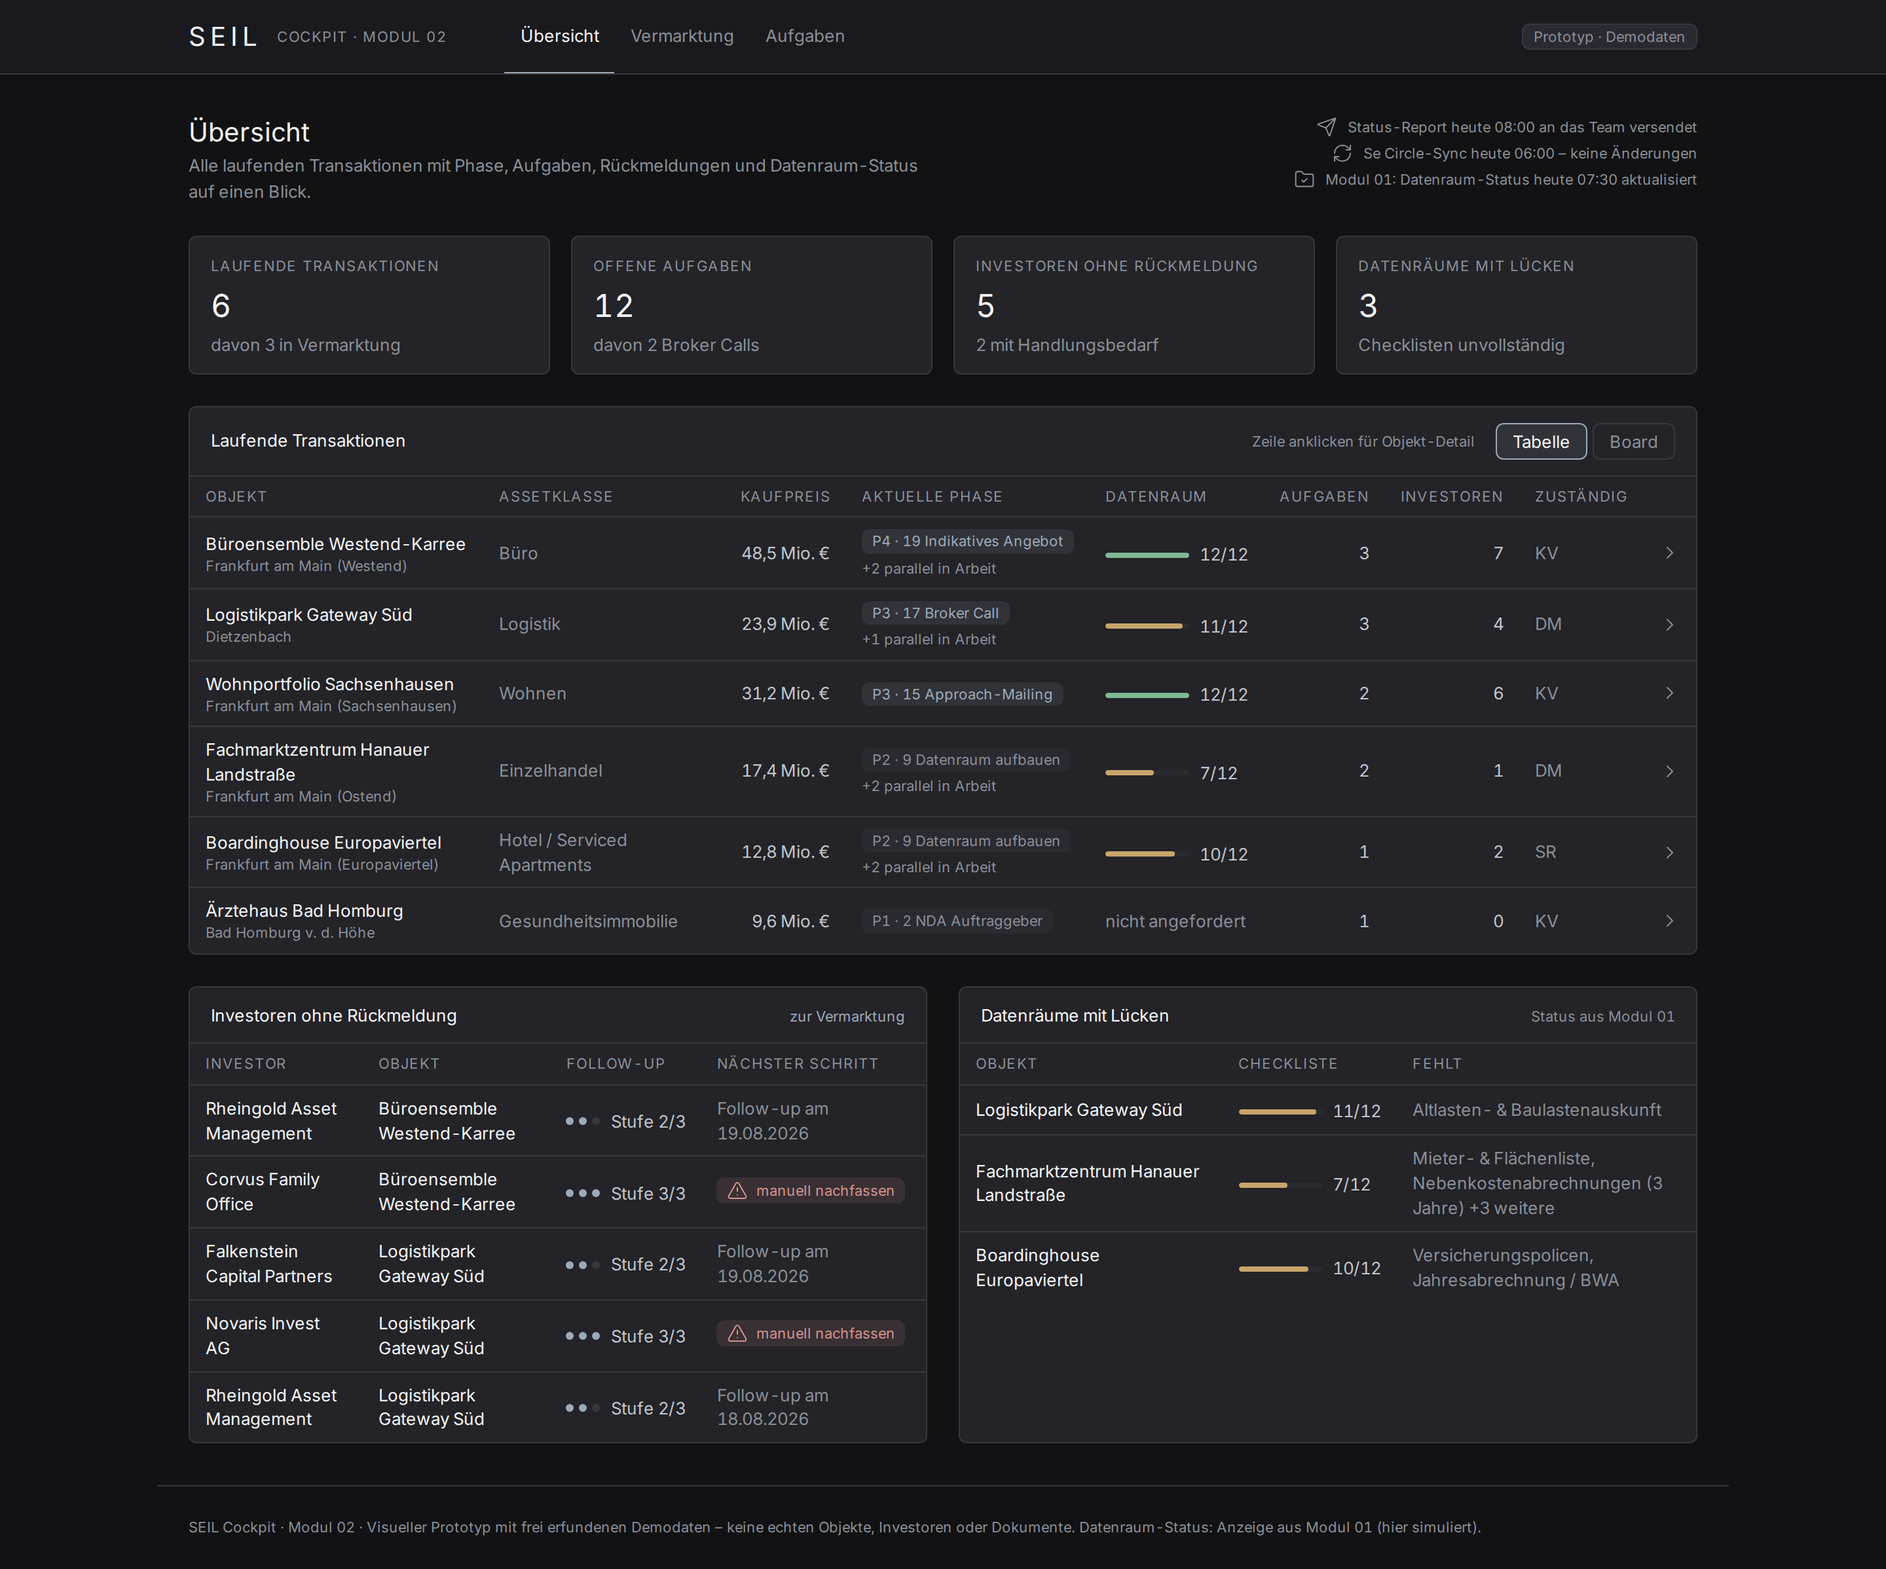
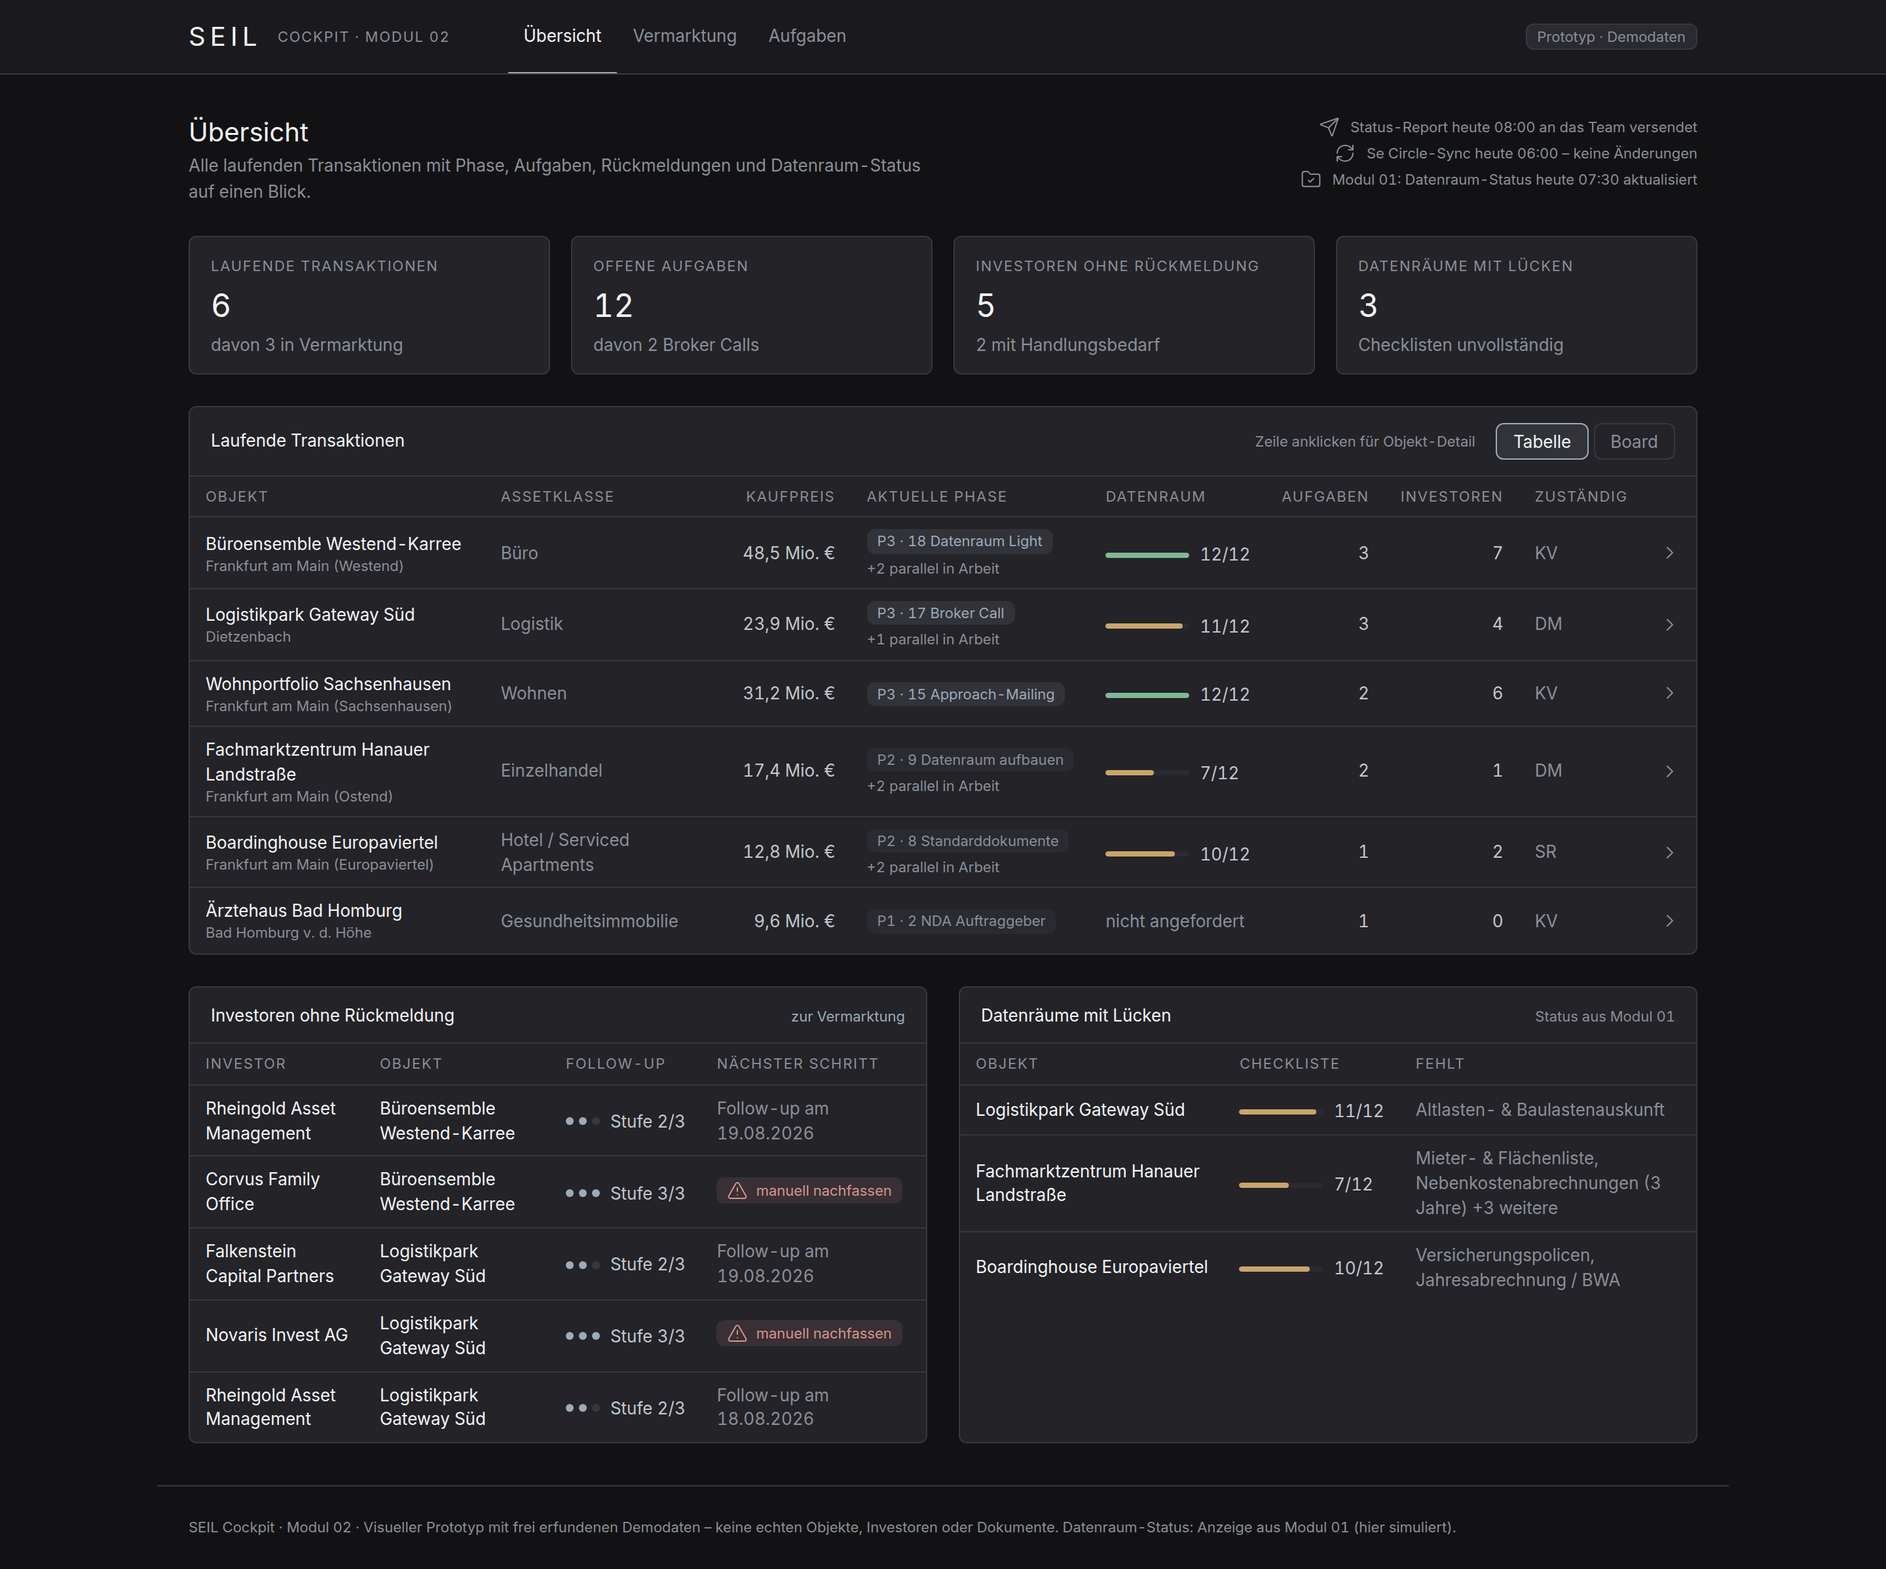
Team-Excel-Review eingearbeitet: Schrittstatus-Bug, Board-Spalten, Doku-Präzision
schritteMit adressiert Ausnahmen jetzt eindeutig über die Schrittnummer
(1-26) statt über den Array-Index - die sechs Objekt-Maps waren in
gemischten Konventionen geschrieben, wodurch z. B. am Westend-Karree
"Datenraum Light" als Pending stand, obwohl ein Investor Datenraumzugang
hat. Alle Maps geprüft und konsistent gesetzt.

Board der Übersicht auf 4 Spalten (= 4 Phasen) statt grid-cols-5 mit
leerer fünfter Spur; Spaltenkopf gegen Overflow gesichert. Letzter
Alt-Text des Zwei-Seiten-Modells ("Eigentümerseite") ersetzt.

Dokumentation ehrlich gemacht: Die Excel führt real 25 Statusspalten -
die Splits (19/20, 23/24), das Status-Mapping "In Vorbereitung" auf
Pending und die Zusammenfassung von "Investment Team (India)" unter
"Investment Team" sind jetzt in ANNAHMEN.md als bestätigungspflichtige
Bereinigungen dokumentiert; "1:1"-Behauptungen in README und Kommentaren
entsprechend relativiert. Veraltete Board-Beschreibung (5 Spalten/12
Schritte) in README und ANNAHMEN korrigiert. Screenshots neu erzeugt.

Claude-Session: https://claude.ai/code/session_01BojgCmkhzmX3simacEqUtG

diff --git a/lib/mock-data.ts b/lib/mock-data.ts
@@ -20,12 +20,17 @@ export const HEUTE = "2026-08-18";
 // ---------------------------------------------------------------------------
 
 /**
- * Prozessmodell 1:1 aus der Team-Excel „SEIL Transaction Process" (19.08.):
- * 26 Schritte in 4 Phasen, je Schritt Verantwortung und heutiges Tool.
- * Titel der Phasen 3+4 stehen so in der Excel; 1+2 sind im Export abgeschnitten
- * und hier gesetzt. Die Excel-Nummerierung (Lücken bei 13/17, doppelte 18)
- * wurde auf durchgängig 1–26 bereinigt; „Reporting (wöchentlich)" läuft als
- * Querschnitt in Phase 4 mit. Beides bitte im Kundengespräch bestätigen.
+ * Prozessmodell aus der Team-Excel „SEIL Transaction Process" (19.08.),
+ * bereinigt auf 26 Schritte in 4 Phasen, je Schritt Verantwortung und heutiges
+ * Tool. Bereinigungen gegenüber der Excel (dort real 25 Statusspalten):
+ * – zwei kombinierte Einträge wurden in je zwei Schritte geteilt
+ *   („Indikatives Angebot/LOI Besichtigungen" → 19+20,
+ *   „Angebotsverhandlung Notarbeauftragung" → 23+24);
+ * – „Reporting (wöchentlich)" läuft als Querschnitt in Phase 4 statt als Schritt;
+ * – die Excel-Nummerierung (Lücken bei 13/17, doppelte 18) wurde auf 1–26
+ *   durchnummeriert; Titel der Phasen 1+2 sind im Export abgeschnitten und hier
+ *   gesetzt (3+4 wie im Original).
+ * Alles bitte im Kundengespräch bestätigen – siehe ANNAHMEN.md Punkt 2.
  */
 
 export type SchrittVerantwortung = "team" | "automatik" | "freigabe" | "extern";
@@ -167,9 +172,12 @@ export const STANDARD_DOKUMENTE = [
 
 type SchrittMap = Partial<Record<number, "done" | "in_progress" | "pending" | "na">>;
 
-/** Schritt-Status-Array: alles bis `doneBis` (1-basiert) done, Rest pending, plus Ausnahmen. */
+/** Schritt-Status-Array: alles bis `doneBis` done, Rest pending.
+ *  Ausnahmen werden über die SCHRITTNUMMER (1–26) adressiert – nie über den Array-Index. */
 function schritteMit(doneBis: number, ausnahmen: SchrittMap = {}) {
-  return PROZESS_SCHRITTE.map((sch, i) => ausnahmen[i] ?? (sch.nr <= doneBis ? ("done" as const) : ("pending" as const)));
+  return PROZESS_SCHRITTE.map(
+    (sch) => ausnahmen[sch.nr] ?? (sch.nr <= doneBis ? ("done" as const) : ("pending" as const)),
+  );
 }
 
 type DokStatusMap = Partial<Record<number, "in_pruefung" | "ausstehend">>;
@@ -203,7 +211,7 @@ export const objekte: Objekt[] = [
     vertretungId: "m2",
     standNotiz: "Zwei heiße Kandidaten – indikative Angebote für KW 35 avisiert.",
     kennzahlen: { renditeProzent: 4.6, baujahr: 1998, einheiten: 31, leerstandProzent: 4.1, jnkmIstEuro: 2230000, jnkmSollEuro: 2310000 },
-    schritte: schritteMit(15, { 15: "in_progress", 16: "in_progress", 18: "in_progress", 19: "pending" }),
+    schritte: schritteMit(15, { 16: "in_progress", 17: "in_progress", 18: "in_progress" }),
     kiFelder: [
       { feld: "Mietverträge", wert: "27", quelleDokument: "Mieter- & Flächenliste", status: "uebernommen" },
       { feld: "WALT", wert: "4,3 Jahre", quelleDokument: "Mieter- & Flächenliste", status: "uebernommen" },
@@ -227,7 +235,7 @@ export const objekte: Objekt[] = [
     vertretungId: "m3",
     standNotiz: "Altlastenauskunft beim Amt nachgefordert – Reporting an Auftraggeber läuft.",
     kennzahlen: { renditeProzent: 5.4, baujahr: 2011, einheiten: 4, leerstandProzent: 0 },
-    schritte: schritteMit(15, { 15: "in_progress", 16: "in_progress", 17: "pending" }),
+    schritte: schritteMit(15, { 16: "in_progress", 17: "in_progress" }),
     teaser: { stand: "versendet", entwurfVom: "2026-08-04", geprueftDurchId: "m2", versendetAm: "2026-08-06" },
     datenraum: datenraumMit({ 10: "ausstehend" }, "2026-08-16"),
     freigabe: { status: "erteilt", durchId: "m2", am: "2026-08-05" },
@@ -245,7 +253,7 @@ export const objekte: Objekt[] = [
     vertretungId: "m3",
     standNotiz: "Versand wartet auf Listen-Freigabe – danach übernimmt die Automatik.",
     kennzahlen: { renditeProzent: 3.8, baujahr: 1955, einheiten: 62, leerstandProzent: 3.2, jnkmIstEuro: 867000, jnkmSollEuro: 912000 },
-    schritte: schritteMit(14, { 14: "pending" }),
+    schritte: schritteMit(14),
     kiFelder: [
       { feld: "Grundbuchblätter", wert: "3 (Bl. 4211, 4212, 4287)", quelleDokument: "Grundbuchauszug", status: "uebernommen" },
       { feld: "Wohneinheiten", wert: "62", quelleDokument: "Mieter- & Flächenliste", status: "uebernommen" },
@@ -272,7 +280,7 @@ export const objekte: Objekt[] = [
     vertretungId: "m1",
     standNotiz: "Eigentümerin liefert Unterlagen schleppend – täglich nachfassen.",
     kennzahlen: { renditeProzent: 7.1, baujahr: 1994, einheiten: 12, leerstandProzent: 18.5 },
-    schritte: schritteMit(7, { 7: "in_progress", 8: "in_progress", 3: "in_progress", 12: "na" }),
+    schritte: schritteMit(7, { 4: "in_progress", 8: "in_progress", 9: "in_progress", 13: "na" }),
     datenraum: datenraumMit(
       { 3: "in_pruefung", 7: "ausstehend", 8: "ausstehend", 9: "ausstehend", 10: "ausstehend" },
       "2026-08-16",
@@ -297,7 +305,7 @@ export const objekte: Objekt[] = [
     vertretungId: "m2",
     standNotiz: "Pachtvertrag mit Betreiber wird nachgereicht – Valuation läuft.",
     kennzahlen: { renditeProzent: 5.9, baujahr: 2016, einheiten: 88, leerstandProzent: 0 },
-    schritte: schritteMit(3, { 3: "in_progress", 4: "in_progress", 8: "in_progress", 9: "done" }),
+    schritte: schritteMit(2, { 3: "in_progress", 4: "in_progress", 8: "in_progress", 9: "done", 10: "done" }),
     datenraum: datenraumMit({ 9: "ausstehend", 11: "ausstehend" }, "2026-08-08"),
   },
   {
@@ -313,7 +321,7 @@ export const objekte: Objekt[] = [
     vertretungId: "m2",
     standNotiz: "NDA-Rücklauf steht aus – Wiedervorlage heute.",
     kennzahlen: { renditeProzent: 4.9, baujahr: 2005, einheiten: 9, leerstandProzent: 6.0 },
-    schritte: schritteMit(1, { 1: "in_progress" }),
+    schritte: schritteMit(1, { 2: "in_progress" }),
     datenraum: { angefordert: false, dokumente: [] },
   },
 ];

diff --git a/components/transaktionen-ansicht.tsx b/components/transaktionen-ansicht.tsx
@@ -103,16 +103,16 @@ function TransaktionsBoard() {
   }));
 
   return (
-    <div className="grid grid-cols-2 items-start gap-3 md:grid-cols-3 lg:grid-cols-5" role="list">
+    <div className="grid grid-cols-2 items-start gap-3 md:grid-cols-4 lg:grid-cols-4" role="list">
       {spalten.map((sp) => (
         <div
           key={sp.label}
           role="listitem"
           className="flex flex-col gap-2 rounded-seil border border-seil-line bg-seil-surface px-2 py-2"
         >
-          <div className="flex items-baseline justify-between gap-2 px-1">
+          <div className="flex min-w-0 items-baseline justify-between gap-2 px-1">
             <Kicker>{sp.label}</Kicker>
-            <span className="text-kicker text-seil-muted">{sp.objekte.length}</span>
+            <span className="shrink-0 text-kicker text-seil-muted">{sp.objekte.length}</span>
           </div>
           {sp.objekte.length === 0 ? (
             <p className="px-1 pb-1 text-kicker text-seil-muted">keine Transaktion</p>
@@ -196,8 +196,8 @@ function TransaktionsTabelle() {
 
 /**
  * Laufende Transaktionen in zwei Projektionen derselben Daten:
- * Tabelle (dicht, sortiert) und Board (Pipeline-Spalten, Karte je Objekt).
- * Das Board verdichtet die 12 Prozessschritte auf 5 Stufen.
+ * Tabelle (dicht, sortiert) und Board (eine Spalte je Phase, Karte je Objekt).
+ * Jede Karte hängt in der Phase ihres weitesten laufenden Schritts.
  */
 export function TransaktionenAnsicht() {
   const [ansicht, setAnsicht] = useState<string>("tabelle");

diff --git a/lib/types.ts b/lib/types.ts
@@ -1,6 +1,8 @@
 // Typen des SEIL Cockpit (Modul 02) – reiner Frontend-Prototyp mit Mock-Daten.
 
-/** Statusvokabular der Team-Excel: Done / In Progress / Pending / N.A. */
+/** Statusvokabular der Team-Excel: Done / In Progress / Pending / N.A.
+ *  Das dort vereinzelt genutzte „In Vorbereitung" wird im Prototyp auf
+ *  Pending abgebildet (siehe ANNAHMEN.md Punkt 3). */
 export type SchrittStatus = "done" | "in_progress" | "pending" | "na";
 
 export type DokumentStatus = "vorhanden" | "in_pruefung" | "ausstehend";

diff --git a/app/objekte/[id]/page.tsx b/app/objekte/[id]/page.tsx
@@ -175,7 +175,7 @@ export default async function ObjektDetail({ params }: { params: Promise<{ id: s
                 {objekt.kiFelder?.length ? <KiExtraktion felder={objekt.kiFelder} /> : null}
               </>
             ) : (
-              <EmptyState text="Datenraum noch nicht angefordert – Schritt 3 der Eigentümerseite." />
+              <EmptyState text="Datenraum noch nicht angefordert – folgt mit Schritt 8 „Standarddokumente“ (Phase 2)." />
             )}
           </Card>
 

diff --git a/ANNAHMEN.md b/ANNAHMEN.md
@@ -6,21 +6,31 @@ für den Prototyp eine Annahme getroffen wurde – jeweils mit der gewählten Um
 ## Prozess & Statusmodell
 
 1. **Prozessmodell aus der Team-Excel (19.08.).** Der Prototyp folgt der echten
-   Liste „SEIL Transaction Process“: 26 Schritte in 4 Phasen, je Schritt
-   Verantwortung (Client, Legal Team, Investment Team, Broker, Team) und
-   heutiges Tool (Word/PDF, Excel, PowerPoint, Outlook, OneDrive, Pipedrive).
-   Für die kompakte Leiste wurden deutsche Kurzlabels gesetzt. → `lib/mock-data.ts`
-2. **Bereinigungen gegenüber der Excel (bitte bestätigen):** Die Titel der
-   Phasen 1+2 sind im Export abgeschnitten und hier gesetzt („Mandat &
-   Bewertung“, „Vermarktungsvorbereitung“); Phasen 3+4 heißen wie im Original.
-   Die Excel-Nummerierung (Lücken bei 13/17, doppelte 18) wurde auf 1–26
-   durchnummeriert; „Reporting (wöchentlich)“ läuft als Querschnitt in Phase 4
-   statt als eigener Schritt. Die Tool-Zuordnung je Schritt ist aus dem Export
+   Liste „SEIL Transaction Process“: bereinigt 26 Schritte in 4 Phasen, je
+   Schritt Verantwortung und heutiges Tool (Word/PDF, Excel, PowerPoint,
+   Outlook, OneDrive, Pipedrive). Als Verantwortliche führt die Excel Client,
+   Legal Team, Investment Team, **Investment Team (India)**, Broker und Team –
+   im Prototyp ist India unter „Investment Team“ zusammengefasst; welche
+   Schritte real in Indien liegen, bitte im Gespräch klären. Für die kompakte
+   Leiste wurden deutsche Kurzlabels gesetzt. → `lib/mock-data.ts`
+2. **Bereinigungen gegenüber der Excel (bitte bestätigen):** Die Excel führt
+   real 25 Statusspalten. Zwei kombinierte Einträge wurden für den Prototyp in
+   je zwei Schritte geteilt („Indikatives Angebot/LOI Besichtigungen“ →
+   Schritte 19+20, „Angebotsverhandlung Notarbeauftragung“ → Schritte 23+24);
+   „Reporting (wöchentlich)“ läuft als Querschnitt in Phase 4 statt als eigener
+   Schritt – zusammen ergibt das die 26 Schritte. Die Titel der Phasen 1+2 sind
+   im Export abgeschnitten und hier gesetzt („Mandat & Bewertung“,
+   „Vermarktungsvorbereitung“); Phasen 3+4 heißen wie im Original. Die
+   Excel-Nummerierung (Lücken bei 13/17, doppelte 18) wurde auf 1–26
+   durchnummeriert. Die Tool-Zuordnung je Schritt ist aus dem Export
    rekonstruiert.
-3. **Statusvokabular wie im Team:** Done / In Progress / Pending / N.A. –
-   mehrere Schritte können parallel „In Progress“ sein. „Aktueller Schritt“
-   (Tabelle, Board) ist der weiteste laufende Schritt; parallel Laufende werden
-   als „+n parallel“ ausgewiesen. Der Prozessfortschritt zählt N.A. nicht mit.
+3. **Statusvokabular:** Done / In Progress / Pending / N.A. wie in der Excel –
+   das dort vereinzelt genutzte **„In Vorbereitung“** ist im Prototyp auf
+   „Pending“ abgebildet (bitte bestätigen, falls es ein eigener Status bleiben
+   soll). Mehrere Schritte können parallel „In Progress“ sein. „Aktueller
+   Schritt“ (Tabelle, Board) ist der weiteste laufende Schritt; parallel
+   Laufende werden als „+n parallel“ ausgewiesen. Der Prozessfortschritt zählt
+   N.A. nicht mit.
 4. **Lead + Vertretung** je Objekt wie in der Excel (Spalten Projekt Lead /
    Vertretung); die Stand-Notiz entspricht der Freitext-Notizspalte.
 5. **Keine echten Daten übernommen:** Die Excel enthält reale Adressen, Preise
@@ -137,12 +147,12 @@ simuliert**; die echte Anbindung ist Umsetzungsteil von Modul 02.
     „Zurücksetzen“ stellt den Stand wieder her). Das Umsortieren der
     Prozessschritte selbst bleibt dem echten System vorbehalten – die Schritte
     sind hier bewusst fest verdrahtet.
-28. **Board-Ansicht:** Die Übersicht bietet zusätzlich zur Tabelle ein Board.
-    Die 5 Spalten („Akquise & NDA“ → „Vermarktung · Aktiv“) verdichten die
-    12 Prozessschritte; die Zuordnung ist eine Setzung und im Kundengespräch
-    zu bestätigen. Karten folgen dem Prozessstatus – ein manuelles Verschieben
-    von Karten wäre im echten System eine Statusänderung und ist im Klickdummy
-    bewusst nicht simuliert.
+28. **Board-Ansicht:** Die Übersicht bietet zusätzlich zur Tabelle ein Board
+    mit **4 Spalten = die 4 Phasen der Team-Excel** („Mandat & Bewertung“ bis
+    „Angebote & Reporting“). Jede Karte hängt in der Phase ihres weitesten
+    laufenden Schritts. Karten folgen dem Prozessstatus – ein manuelles
+    Verschieben von Karten wäre im echten System eine Statusänderung und ist
+    im Klickdummy bewusst nicht simuliert.
 29. **Interaktiver Prozess:** „Das Dashboard soll den gesamten
     Transaktionsprozess interaktiv abbilden“ (Kickoff) ist als klickbare
     Prozessleiste umgesetzt: jeder Schritt öffnet ein Detailpanel mit

diff --git a/README.md b/README.md
@@ -5,7 +5,7 @@ Immobilien-Transaktionsberatung. Der Prototyp dient der Abstimmung mit dem Kunde
 **keine echte Logik, keine API-Anbindung, keine Datenbank.** Alle Daten sind frei
 erfundene Demodaten in [`lib/mock-data.ts`](lib/mock-data.ts).
 
-Der Transaktionsprozess folgt der Team-Liste: **26 Schritte in 4 Phasen** (Mandat & Bewertung → Vermarktungsvorbereitung → Aktive Vermarktung → Angebote & Reporting), Statusvokabular Done / In Progress / Pending / N.A.
+Der Transaktionsprozess folgt der Team-Liste, bereinigt auf **26 Schritte in 4 Phasen** (Mandat & Bewertung → Vermarktungsvorbereitung → Aktive Vermarktung → Angebote & Reporting), Statusvokabular Done / In Progress / Pending / N.A. – die Bereinigungen gegenüber der Excel sind in [`ANNAHMEN.md`](ANNAHMEN.md) (Punkte 1–3) dokumentiert.
 
 Kernidee: Objekte, Investoren und Auftraggeber sind **relational verknüpft** – jeder
 Klick auf eine Entität zeigt alle verbundenen Aktivitäten, Kommunikation und
@@ -22,7 +22,8 @@ Gegenparteien. Genau das, was Pipedrive + Excel heute nicht können.
 | 5 | Aufgaben | `/aufgaben` | Nach Mitarbeiter gefiltert, Broker Calls hervorgehoben |
 
 Die Übersicht zeigt die laufenden Transaktionen wahlweise als dichte Tabelle
-oder als Board (Pipeline-Spalten von „Akquise & NDA" bis „Vermarktung · Aktiv").
+oder als Board – eine Spalte je Phase („Mandat & Bewertung“ bis „Angebote &
+Reporting“).
 
 Der Klickdummy ist an den im Kickoff gewünschten Stellen interaktiv: die
 Prozessleiste öffnet je Schritt ein Detailpanel, KI-extrahierte Werte lassen
